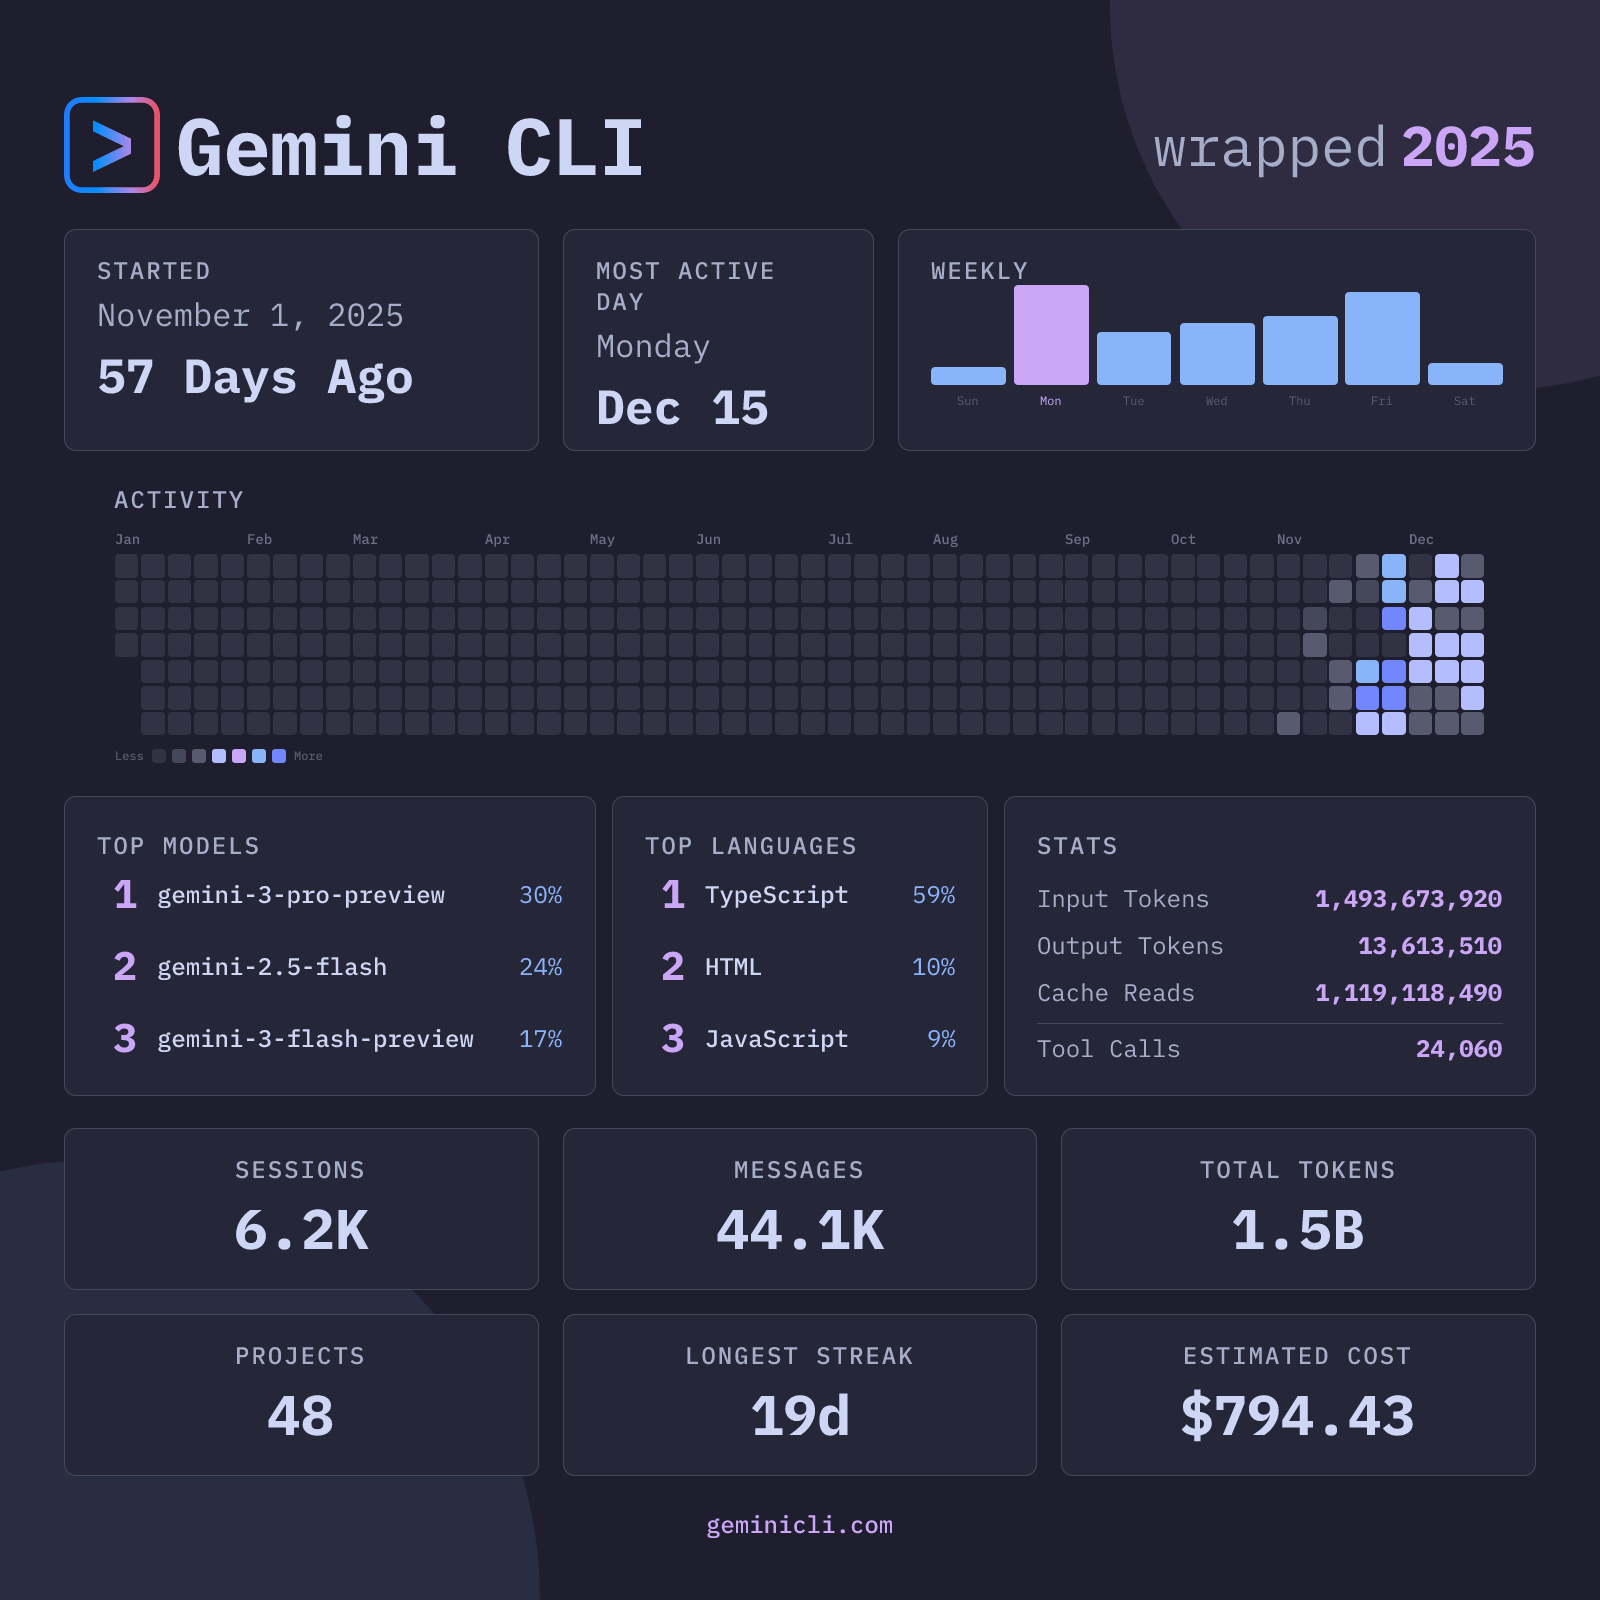
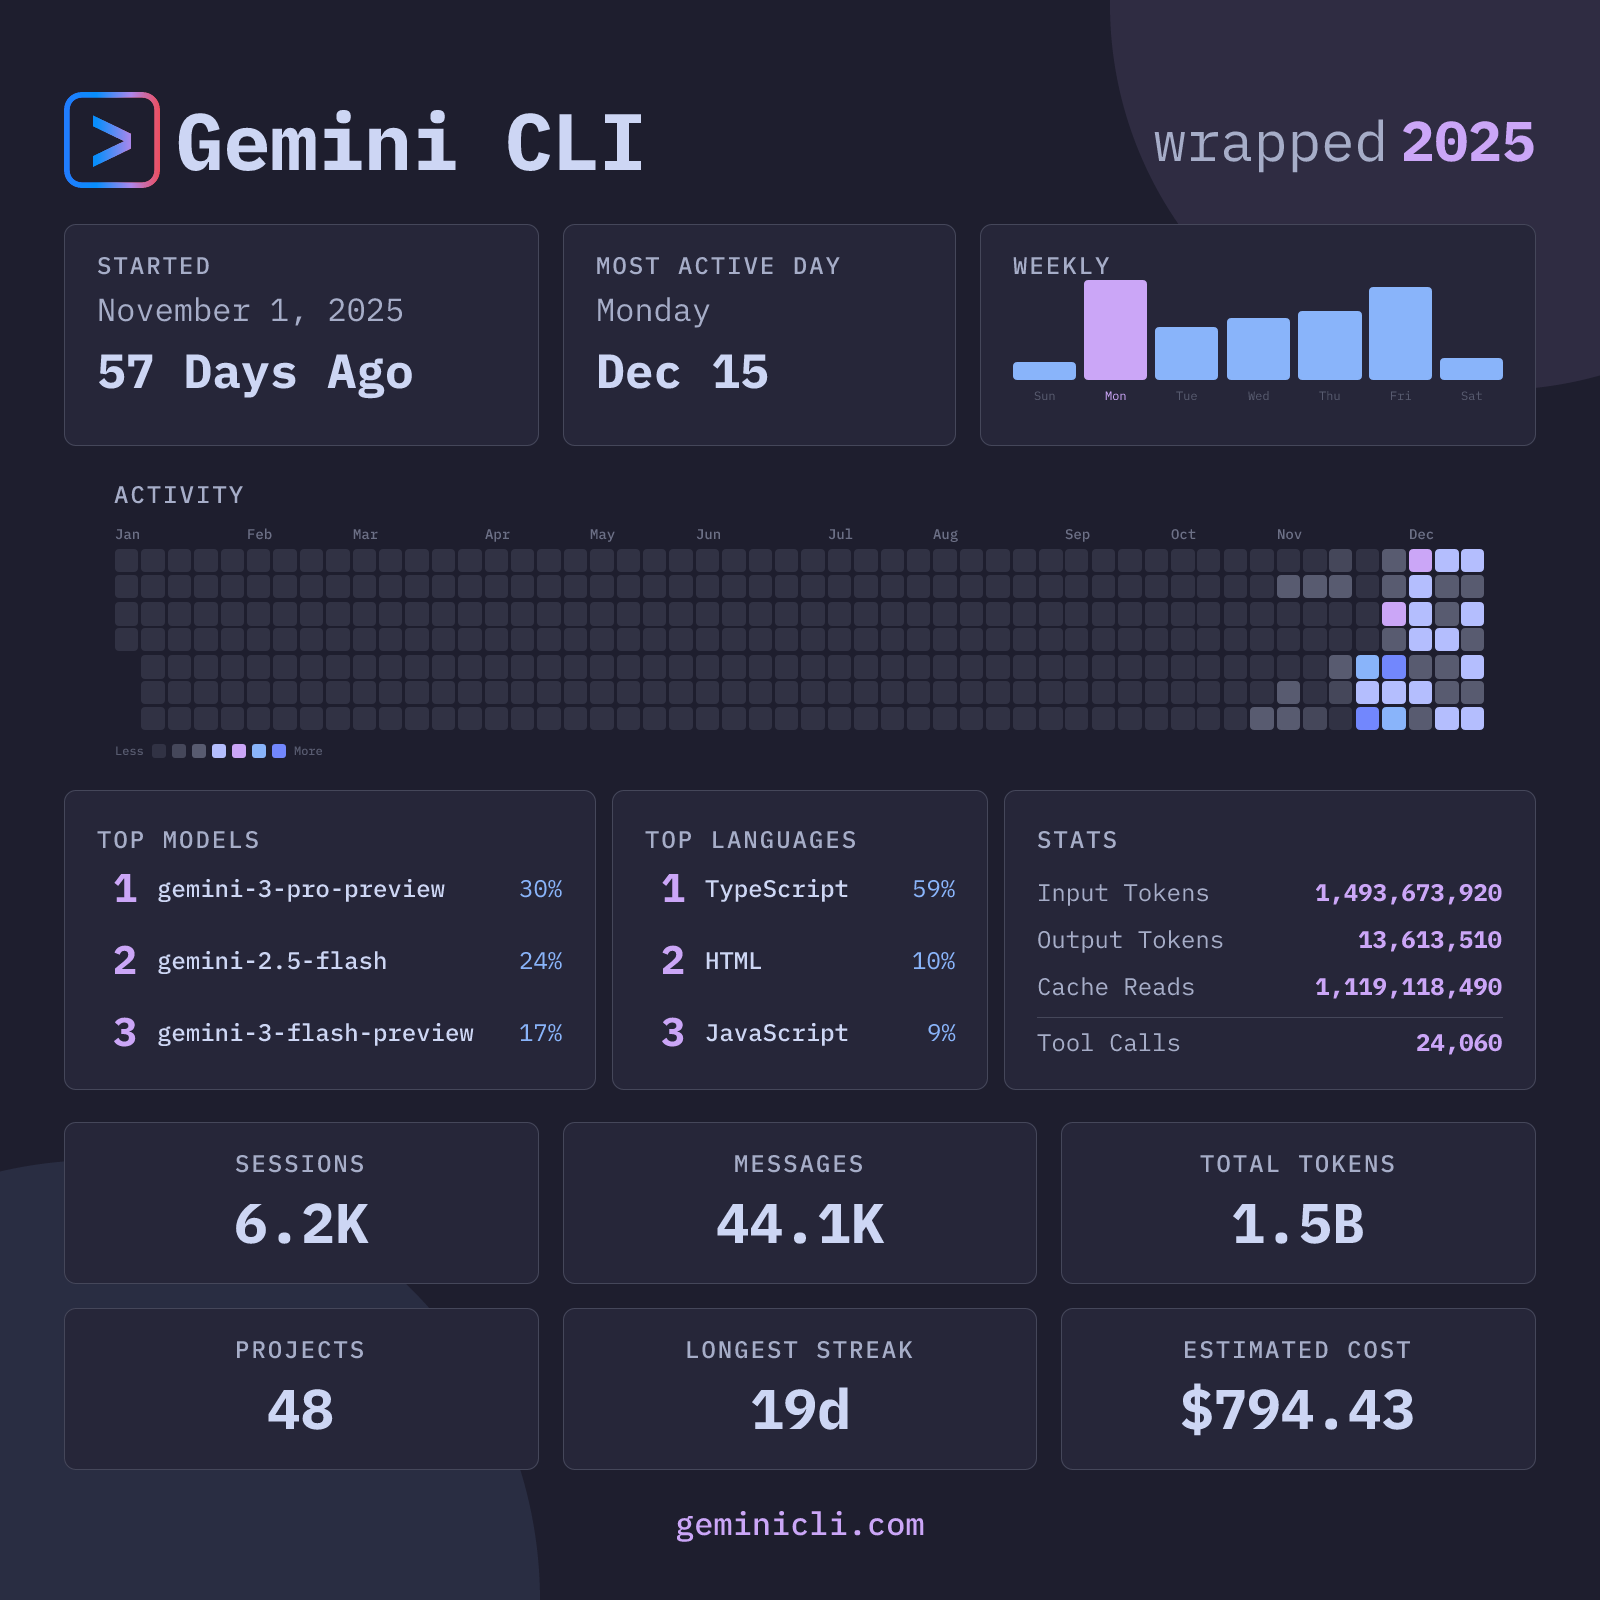
chore: tweak template slightly

diff --git a/src/image/template.tsx b/src/image/template.tsx
@@ -109,7 +109,7 @@ export function WrappedTemplate({ stats }: WrappedTemplateProps) {
               </div>
     
               {/* Most Active Day */}
-              <div style={{ ...components.statBox, flex: 0.6, display: "flex", flexDirection: "column", height: 222, gap: space(4), border: `1px solid ${colors.surfaceBorder}` }}>
+              <div style={{ ...components.statBox, flex: 0.8, display: "flex", flexDirection: "column", height: 222, gap: space(4), border: `1px solid ${colors.surfaceBorder}` }}>
                 <div style={{ display: "flex", flexDirection: "column" }}>
                   <div style={{ ...components.sectionHeader, display: "flex" }}>MOST ACTIVE DAY</div>
                   <div style={{ display: "flex", fontSize: fontSize("xl"), color: colors.text.secondary, marginTop: space(2) }}>
@@ -122,7 +122,7 @@ export function WrappedTemplate({ stats }: WrappedTemplateProps) {
               </div>
     
                {/* Weekly Activity Chart */}
-               <div style={{ ...components.statBox, flex: 1.4, display: "flex", flexDirection: "column", height: 222, border: `1px solid ${colors.surfaceBorder}` }}>
+               <div style={{ ...components.statBox, flex: 1.2, display: "flex", flexDirection: "column", height: 222, border: `1px solid ${colors.surfaceBorder}` }}>
                  <div style={{ ...components.sectionHeader, display: "flex" }}>WEEKLY</div>
                  <div style={{ display: "flex", alignItems: "flex-end", height: 100, gap: space(2), marginTop: space(4), flexDirection: "row" }}>
                    {stats.weekdayActivity.counts.map((count, i) => {
@@ -277,7 +277,7 @@ export function WrappedTemplate({ stats }: WrappedTemplateProps) {
             </div>
     
           <div style={{ display: "flex", justifyContent: "center", flexDirection: "row", marginTop: space(8) }}>
-            <div style={{ display: "flex", color: colors.accent.primary, fontSize: fontSize("lg"), fontWeight: typography.weight.medium }}>geminicli.com</div>
+            <div style={{ display: "flex", color: colors.accent.primary, fontSize: fontSize("xl"), fontWeight: typography.weight.medium }}>geminicli.com</div>
           </div>
         </div>
       );
